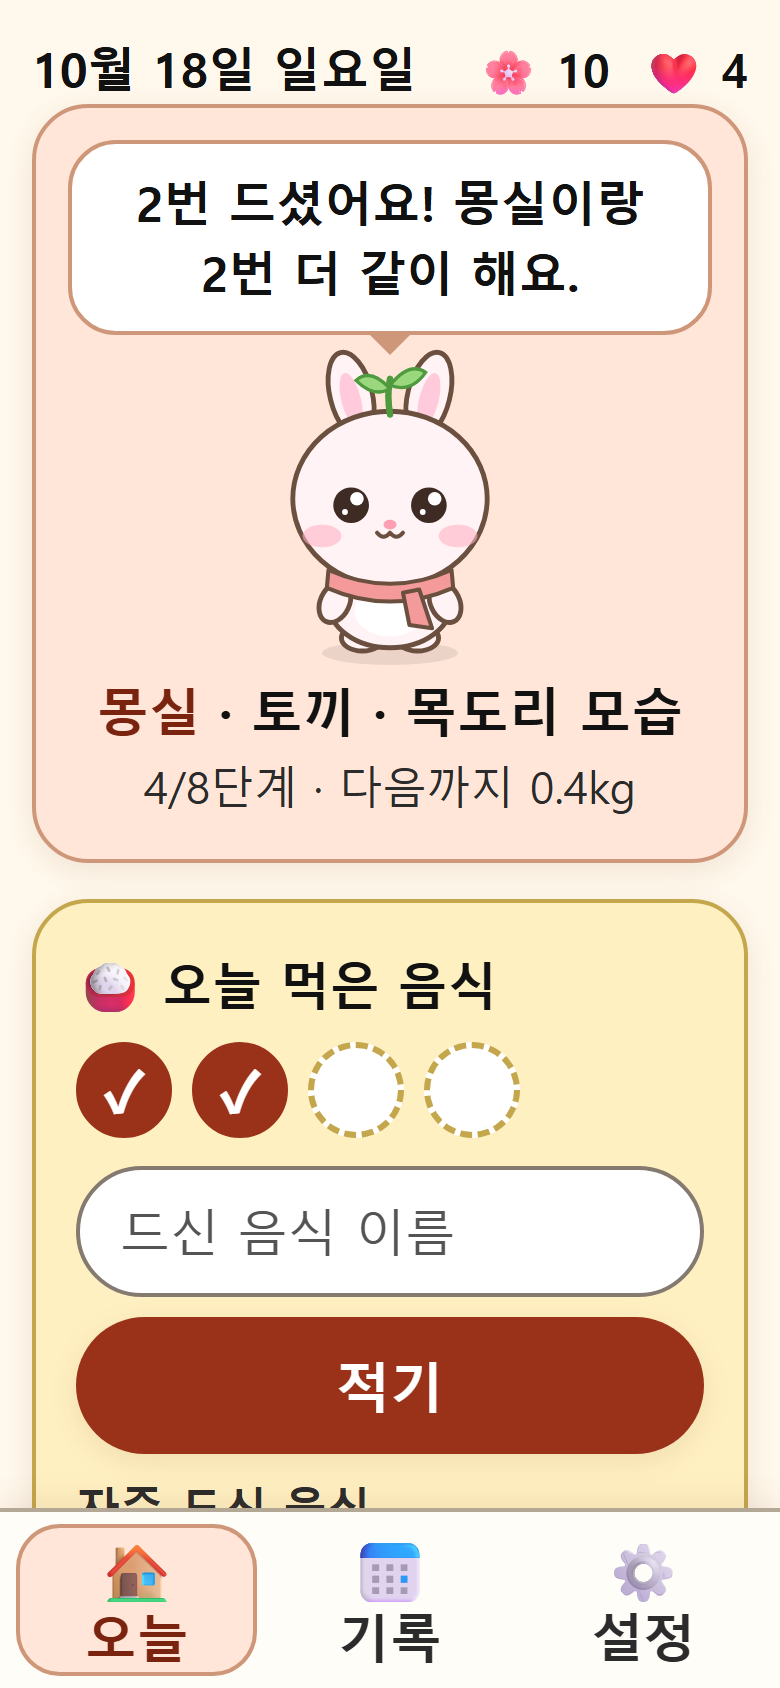
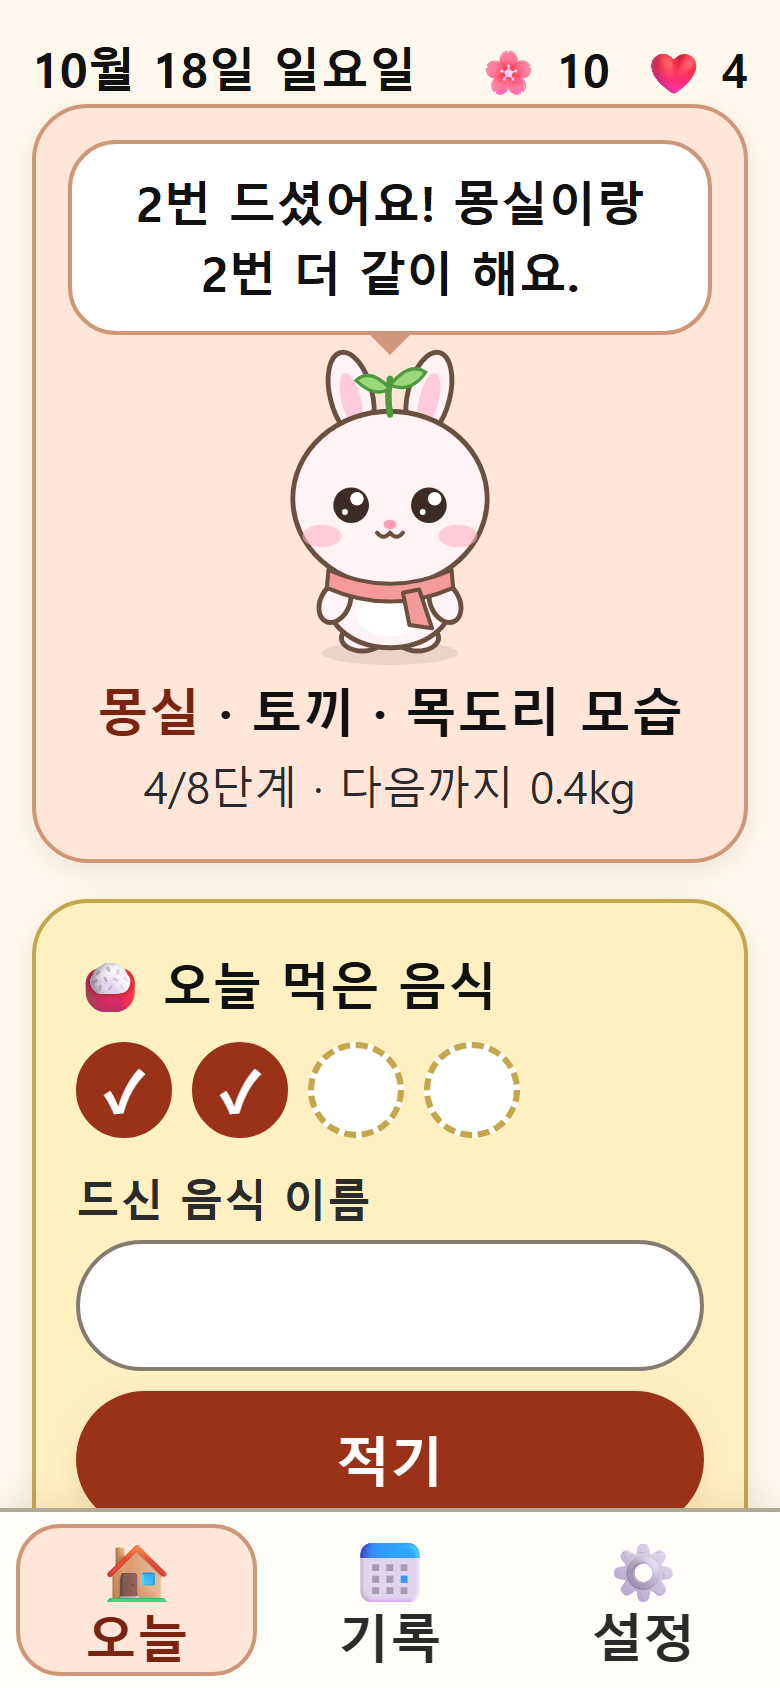
칸 안 안내 글씨를 칸 위 제목으로 옮김
- 칸 안의 안내 글씨(placeholder)를 모두 빼고, 칸 위에 진한 제목으로 보여 줌
  ("드신 음식 이름", "주의 음식 이름", "친구 이름")
- 이름 칸 아래에 "비워 두면 ○○로 불러요" 안내 (받침에 맞춰 로/으로),
  설정에서 친구를 바꾸면 안내도 그 친구의 기본 이름으로 바뀜
- 측정 검사: 칸 안 안내 글씨가 하나라도 있으면 실패
- 서비스 워커 VERSION mom-meal-grow-v3

Changed region(s): [[0.0923, 0.6777, 0.9231, 0.8934]]

diff --git a/js/app.js b/js/app.js
@@ -4,7 +4,7 @@ import {
 import { load, save, newId, exportJson, exportSettingsJson, readBackupFile } from './store.js';
 import { renderWeightChart } from './chart.js';
 import {
-  PETS, FORMS, DEFAULT_NAMES, petName, parsePetName, withJosa, callName, growState, todayProgress, frequentFoods, rewards, recordStreak,
+  PETS, FORMS, DEFAULT_NAMES, petName, parsePetName, withJosa, withRo, growState, todayProgress, frequentFoods, rewards, recordStreak,
   parseCautionWords, cautionMatches, parseFoodName, parseMealsPerDay,
 } from './grow.js';
 import { petSvg } from './pet.js';
@@ -69,7 +69,7 @@ function dateLabel(dateStr) {
 function stepper(id, value, step, unit, label) {
   return `<div class="stepper">
     <button class="step" data-step="${id}" data-d="${-step}" aria-label="${label} ${step} 빼기">−</button>
-    <label class="kg-input"><input id="${id}" type="number" inputmode="decimal" step="${step}" value="${value ?? ''}" placeholder="0" aria-label="${label}"><span>${unit}</span></label>
+    <label class="kg-input"><input id="${id}" type="number" inputmode="decimal" step="${step}" value="${value ?? ''}" aria-label="${label}"><span>${unit}</span></label>
     <button class="step" data-step="${id}" data-d="${step}" aria-label="${label} ${step} 더하기">+</button>
   </div>`;
 }
@@ -131,8 +131,8 @@ function renderStart() {
       <p class="lead">${esc(PETS[d.pet])} 친구를 뭐라고 부를까요?</p>
       <section class="card card-peach name-card">
         <div class="pet-stage">${petSvg({ kind: d.pet, form: 0, scale: 1, size: 150, name: d.name || def })}</div>
-        <label class="field">친구 이름<input id="s-name" class="text-input" maxlength="8" value="${esc(d.name)}" placeholder="${esc(def)}" autocomplete="off"></label>
-        <p class="small muted">비워 두면 "${esc(callName(def))}"라고 불러요. 나중에 설정에서 바꿀 수 있어요.</p>
+        <label class="field">친구 이름<input id="s-name" class="text-input" maxlength="8" value="${esc(d.name)}" autocomplete="off" aria-describedby="s-name-hint"></label>
+        <p class="small muted" id="s-name-hint">비워 두면 ${esc(withRo(def))} 불러요.</p>
       </section>
       <button class="btn btn-primary" id="s-next">다음</button>
       <button class="btn btn-secondary" id="s-back">이전</button>`;
@@ -274,7 +274,8 @@ function renderToday() {
         ${extra ? `<span class="slot-extra">+${extra}</span>` : ''}
       </div>
       <form id="note-form" class="note-form">
-        <input id="note" class="text-input" type="text" maxlength="30" placeholder="드신 음식 이름" autocomplete="off" aria-label="드신 음식 이름">
+        <label class="field" for="note">드신 음식 이름</label>
+        <input id="note" class="text-input" type="text" maxlength="30" autocomplete="off">
         <button class="btn btn-primary" type="submit">적기</button>
       </form>
       ${cautionNote ? `<p class="knote k-high" role="status">${esc(cautionNote)}</p>` : ''}
@@ -443,8 +444,8 @@ function renderSettings() {
           ${petSvg({ kind: k, form: growNow().form, scale: 1, size: 90 })}<span>${name}</span></button>`).join('')}
       </div>
       <p class="small muted">친구를 바꿔도 자란 단계는 그대로예요.</p>
-      <label class="field">친구 이름<input id="set-name" class="text-input" maxlength="8" value="${esc(g().name || '')}" placeholder="${esc(DEFAULT_NAMES[g().pet] ?? '')}" autocomplete="off"></label>
-      <p class="small muted">비워 두면 기본 이름(토끼 몽실, 병아리 보리, 곰 도토리, 고양이 나비)으로 불러요.</p>
+      <label class="field">친구 이름<input id="set-name" class="text-input" maxlength="8" value="${esc(g().name || '')}" autocomplete="off" aria-describedby="set-name-hint"></label>
+      <p class="small muted" id="set-name-hint">비워 두면 ${esc(withRo(DEFAULT_NAMES[g().pet] ?? '친구'))} 불러요.</p>
     </section>
 
     <section class="card card-butter">
@@ -475,7 +476,8 @@ function renderSettings() {
       <h2>칼륨 주의 음식</h2>
       <p class="notice">⚠ 병원 기준으로 확인하세요.</p>
       <p class="small">여기 적은 이름이 들어간 음식을 적으면 부드럽게 알려 드려요. 기록은 막지 않아요.</p>
-      <textarea id="caution" class="text-input" rows="3" placeholder="쉼표로 나눠 적어 주세요">${esc(g().cautionWords.join(', '))}</textarea>
+      <label class="field" for="caution">주의 음식 이름 (쉼표로 나눠 적어 주세요)</label>
+      <textarea id="caution" class="text-input" rows="3">${esc(g().cautionWords.join(', '))}</textarea>
     </section>
     <button class="btn btn-primary" id="save-settings">설정 저장</button>
 
@@ -498,7 +500,7 @@ function renderSettings() {
   let growTiming = g().timing;
   view.querySelectorAll('[data-pet]').forEach((b) => b.addEventListener('click', () => {
     pet = b.dataset.pet;
-    $('#set-name').placeholder = DEFAULT_NAMES[pet];
+    $('#set-name-hint').textContent = `비워 두면 ${withRo(DEFAULT_NAMES[pet])} 불러요.`;
     view.querySelectorAll('[data-pet]').forEach((x) => {
       x.classList.toggle('on', x === b);
       x.setAttribute('aria-checked', String(x === b));

diff --git a/tests/measure.html b/tests/measure.html
@@ -72,16 +72,8 @@ async function measure(hash) {
     const c = ratio(rgba(cs.color), effectiveBg(el, win));
     if (c < minContrast) { minContrast = c; minContrastText = t.slice(0, 20); }
   }
-  // 빈 칸에 보이는 안내 글씨(placeholder)도 크기와 대비를 잰다
-  for (const el of doc.querySelectorAll('input[placeholder], textarea[placeholder]')) {
-    if (el.value || !el.placeholder || !visible(el, win)) continue;
-    const ps = win.getComputedStyle(el, '::placeholder');
-    const fs = parseFloat(ps.fontSize);
-    const label = `(안내) ${el.placeholder.slice(0, 14)}`;
-    if (fs < minFont) { minFont = fs; minFontText = label; }
-    const c = ratio(rgba(ps.color), effectiveBg(el, win));
-    if (c < minContrast) { minContrast = c; minContrastText = label; }
-  }
+  // 칸 안 안내 글씨(placeholder)는 쓰지 않는다. 안내는 칸 위의 진한 제목으로 보여 준다.
+  const placeholders = [...doc.querySelectorAll('[placeholder]')].map((el) => el.getAttribute('placeholder'));
   // 입력칸(input)은 바깥 label 크기가 아니라 칸 자체 크기를 잰다
   for (const el of doc.querySelectorAll('button, a.btn, .tabbar a, input:not([type=file]):not([type=checkbox]), .settings-link')) {
     if (!visible(el, win)) continue;
@@ -91,7 +83,7 @@ async function measure(hash) {
   }
   const body = parseFloat(win.getComputedStyle(doc.body).fontSize);
   return { screen: hash, bodyFont: body, minFont, minFontText, minContrast: Math.round(minContrast * 100) / 100, minContrastText,
-    minTarget: Math.round(minTarget), minTargetText };
+    minTarget: Math.round(minTarget), minTargetText, placeholders };
 }
 
 const rows = [];

diff --git a/app.css b/app.css
@@ -404,6 +404,7 @@ body.onboarding .tabbar { display: none; }
 .slot-extra { font-size: 1.2rem; font-weight: 800; color: var(--accent-text); }
 
 .note-form { display: flex; flex-direction: column; gap: 4px; }
+.note-form .field { margin: 0; }
 .note-form .text-input { min-height: 64px; font-size: 1.25rem; border-radius: 999px; padding: 12px 20px; }
 .note-form .btn-primary { margin: 6px 0 10px; }
 .quick { display: flex; flex-wrap: wrap; gap: 10px; margin: 4px 0 12px; }
@@ -425,8 +426,6 @@ textarea.text-input { min-height: 104px; border-radius: 20px; resize: vertical; 
 .celebrate-title { font-size: 1.5rem; font-weight: 800; }
 .celebrate-sub { font-size: 1.15rem; font-weight: 600; color: var(--ink-2); }
 
-/* 빈 칸의 안내 글씨도 진하게 (흰 바탕 7.6:1, 크림 바탕 7.2:1) */
-::placeholder { color: #545454; opacity: 1; }
 .name-card { text-align: center; }
 .name-card .field { text-align: left; }
 .pet-call { color: var(--accent-text); }

diff --git a/tests/test.html b/tests/test.html
@@ -568,6 +568,8 @@ await test('친구 이름 조사: 받침이 있으면 "○○이가", 없으면 
   eq(G.withJosa('콩이', '가'), '콩이가', '이름이 이미 "이"로 끝나도 자연스럽게');
   eq(G.withJosa('Coco', '가'), 'Coco(이)가', '한글이 아니면 둘 다 적음');
   eq(G.callName('몽실'), '몽실이'); eq(G.callName('나비'), '나비');
+  eq(G.withRo('도토리'), '도토리로'); eq(G.withRo('몽실'), '몽실로', 'ㄹ 받침은 로'); eq(G.withRo('보리'), '보리로');
+  eq(G.withRo('나비'), '나비로'); eq(G.withRo('콩'), '콩으로'); eq(G.withRo('Coco'), 'Coco(으)로');
 });
 await test('친구 그림: 이름표에 이름이 들어가고, 기본·기뻐함·응원 표정이 서로 다르다', () => {
   eq(petSvg({ kind: 'bear', name: '도토리' }).includes('aria-label="도토리(곰), 아기 모습"'), true);

diff --git a/js/grow.js b/js/grow.js
@@ -51,6 +51,14 @@ export function withJosa(name, josa) {
   return name + (pairs[josa] ?? josa);
 }
 
+// '로/으로' 붙이기: 받침이 없거나 ㄹ 받침이면 '로', 다른 받침이면 '으로' (도토리로, 몽실로, 콩으로)
+export function withRo(word) {
+  const last = word.slice(-1);
+  if (!last || !isHangul(last)) return `${word}(으)로`;
+  const jong = (last.charCodeAt(0) - 0xac00) % 28;
+  return word + (jong === 0 || jong === 8 ? '로' : '으로');
+}
+
 // 성장 모습: 단계가 쌓인 정도(목표까지의 비율)에 따라 바뀐다. 마지막 모습은 목표에 도착했을 때만.
 export const FORMS = ['아기', '새싹', '목도리', '꽃', '꽃왕관'];
 

diff --git a/sw.js b/sw.js
@@ -1,6 +1,6 @@
 // 인터넷이 없어도 열리도록 앱 파일을 모두 저장해 둔다. (키우기 화면은 음식 영양 데이터를 쓰지 않는다)
 // 파일을 바꾸면 VERSION 을 올려야 폰에 새 버전이 받아진다.
-const VERSION = 'mom-meal-grow-v2';
+const VERSION = 'mom-meal-grow-v3';
 const FILES = [
   './',
   './index.html',

diff --git a/tools/run_tests.py b/tools/run_tests.py
@@ -69,6 +69,8 @@ def readability_check():
             problems.append(f"글씨 {row['minFont']}px ({row['minFontText']})")
         if row["minContrast"] < MIN_CONTRAST:
             problems.append(f"대비 {row['minContrast']}:1 ({row['minContrastText']})")
+        if row.get("placeholders"):
+            problems.append(f"칸 안 안내 글씨 {row['placeholders']}")
         if row["minTarget"] < MIN_TARGET_PX:
             problems.append(f"버튼 {row['minTarget']}px ({row['minTargetText']})")
         ok &= not problems

diff --git a/README.md b/README.md
@@ -73,7 +73,7 @@ python -I tools/screenshots.py docs/screenshots   # 390x844 폰 화면 캡처
 
 - `tests/test.html`: 성장 단계(0.5kg·목표 도착·줄어도 유지·측정 시점), 오늘 횟수, 자주 먹은 음식, 보상, 칼륨 주의 단어, 친구 그림, 백업(키우기 정보·예전 백업·설정만 내보내기) 등
 - `tests/e2e.html`: 실제 화면에서 처음 시작(예전 기록 이어받기), 음식 적기·다 채우기·지우기, 칼륨 주의, 성장·줄어든 날·다른 시점·목표 도착, 기록 화면과 몸무게 지우기, 백업 내보내기·새 폰에서 불러오기
-- `tests/measure.html`: 화면마다 글씨(빈 칸의 안내 글씨 포함) 19px·대비 7:1·버튼 48px 아래로 내려가면 실패
+- `tests/measure.html`: 화면마다 글씨 19px·대비 7:1·버튼 48px 아래로 내려가거나, 칸 안에 안내 글씨(placeholder)가 있으면 실패 (안내는 칸 위의 진한 제목으로 보여 줌)
 - `tests/seed.html`, `tests/pets.html`, `tests/frame.html`: 스크린샷용 예시 기록·친구 모음·폰 너비 틀(테스트 전용)
 
 ## 배포할 때
